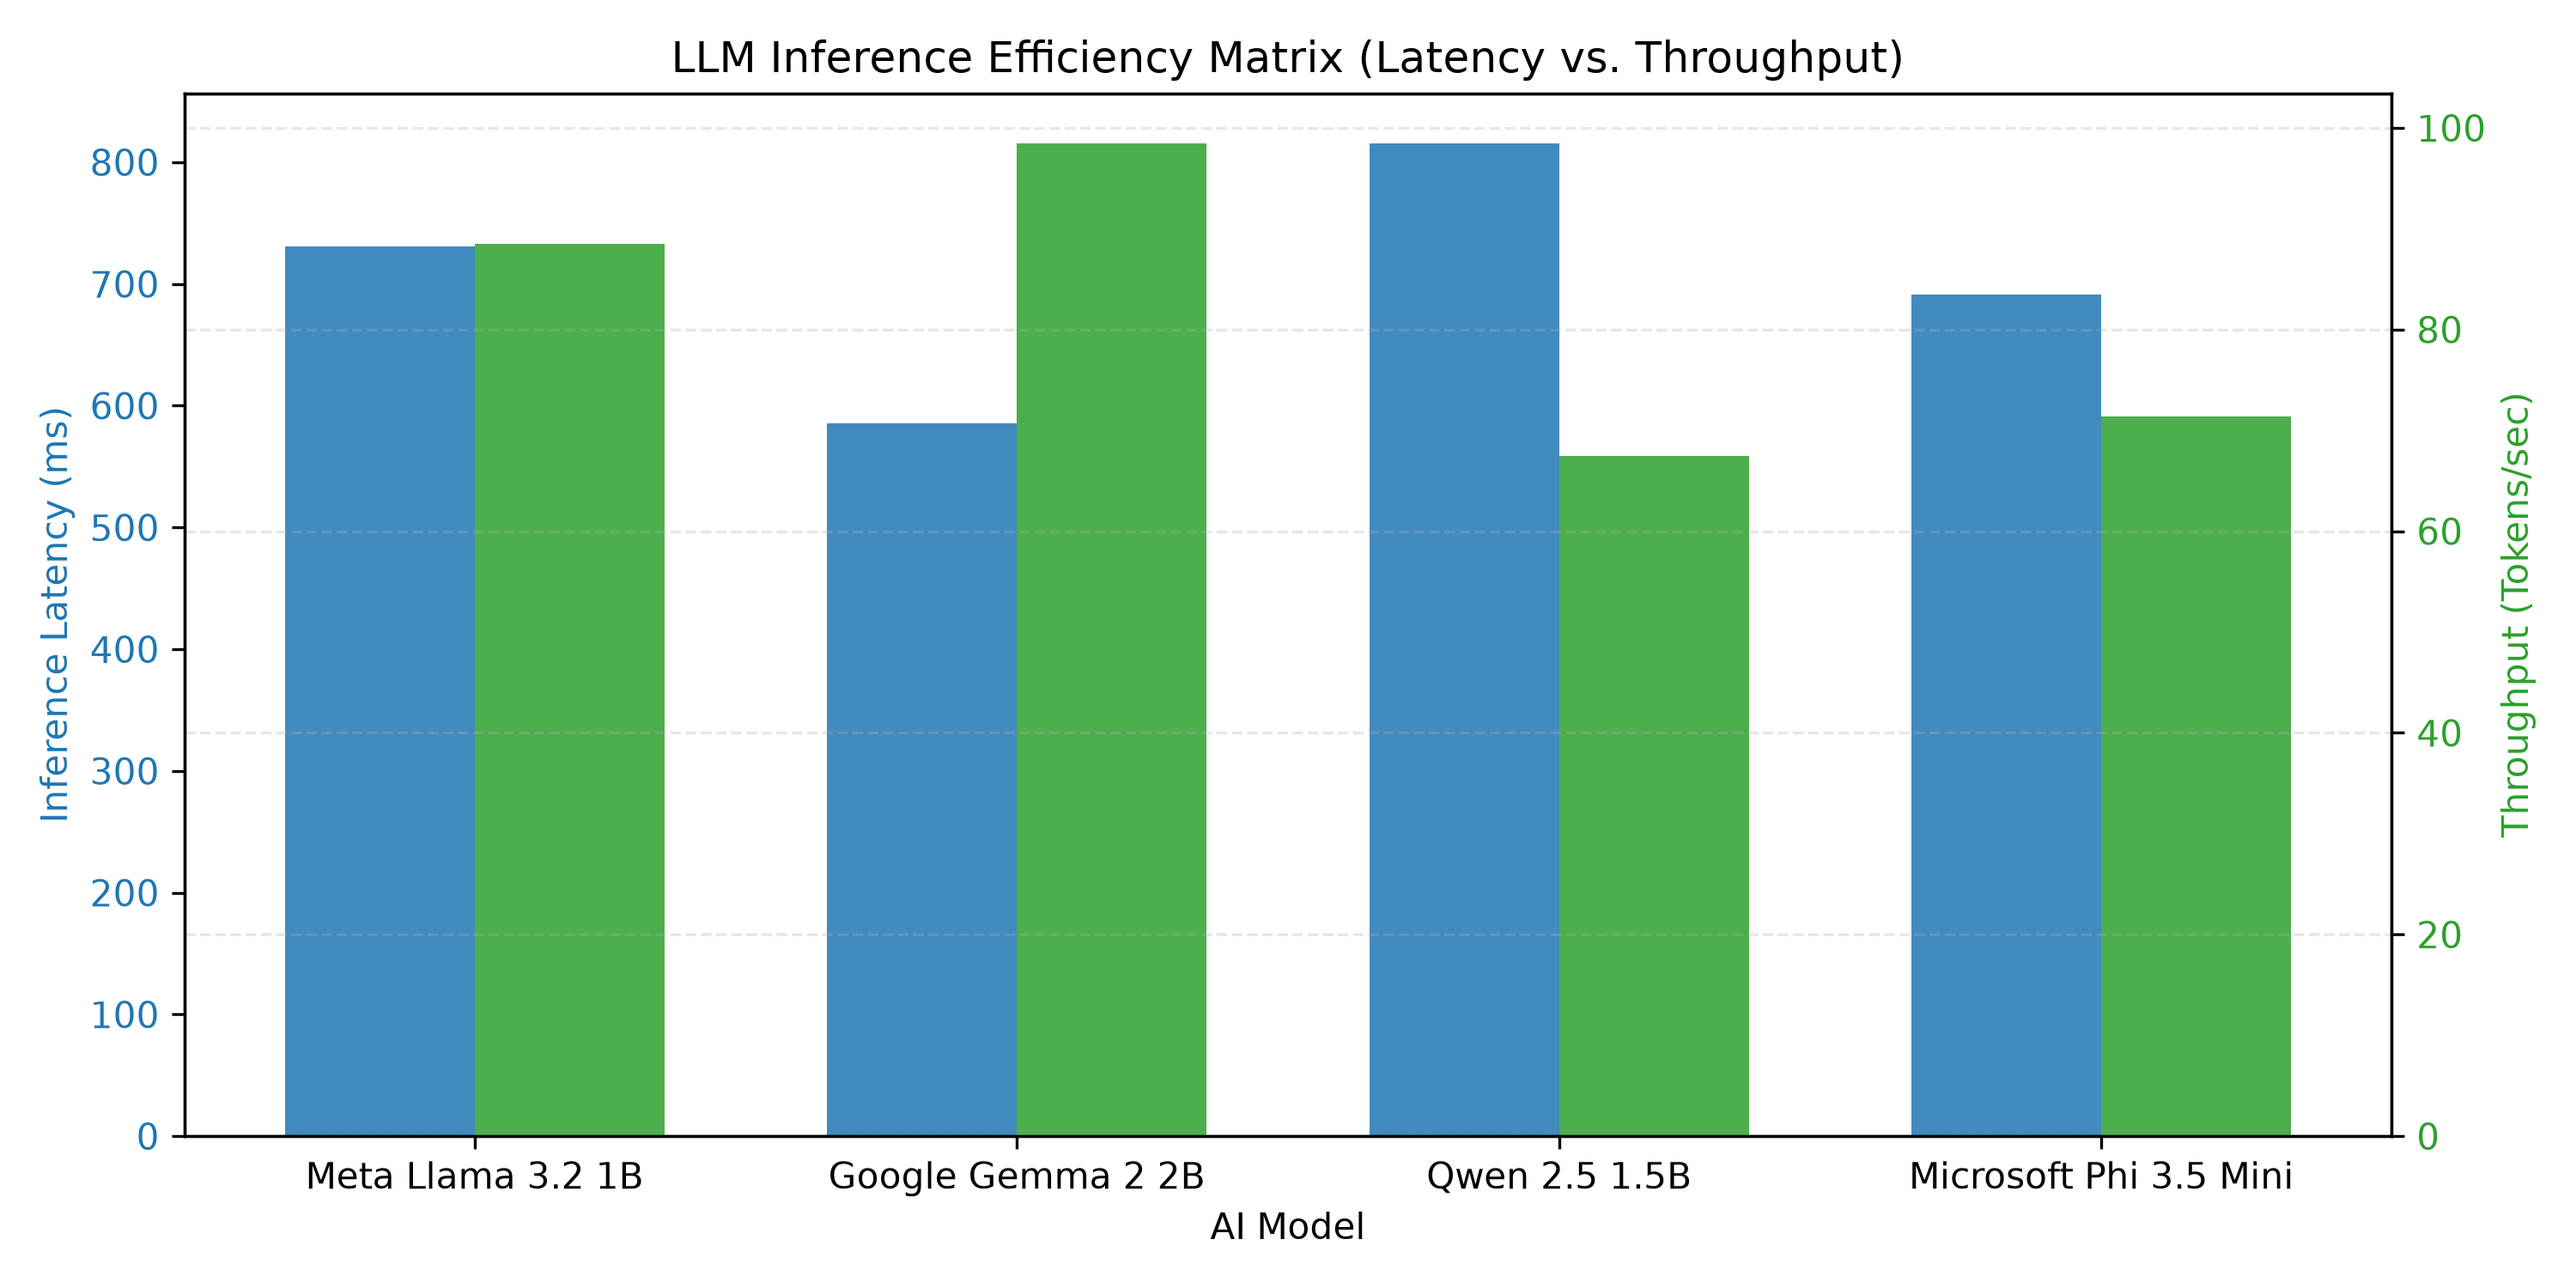
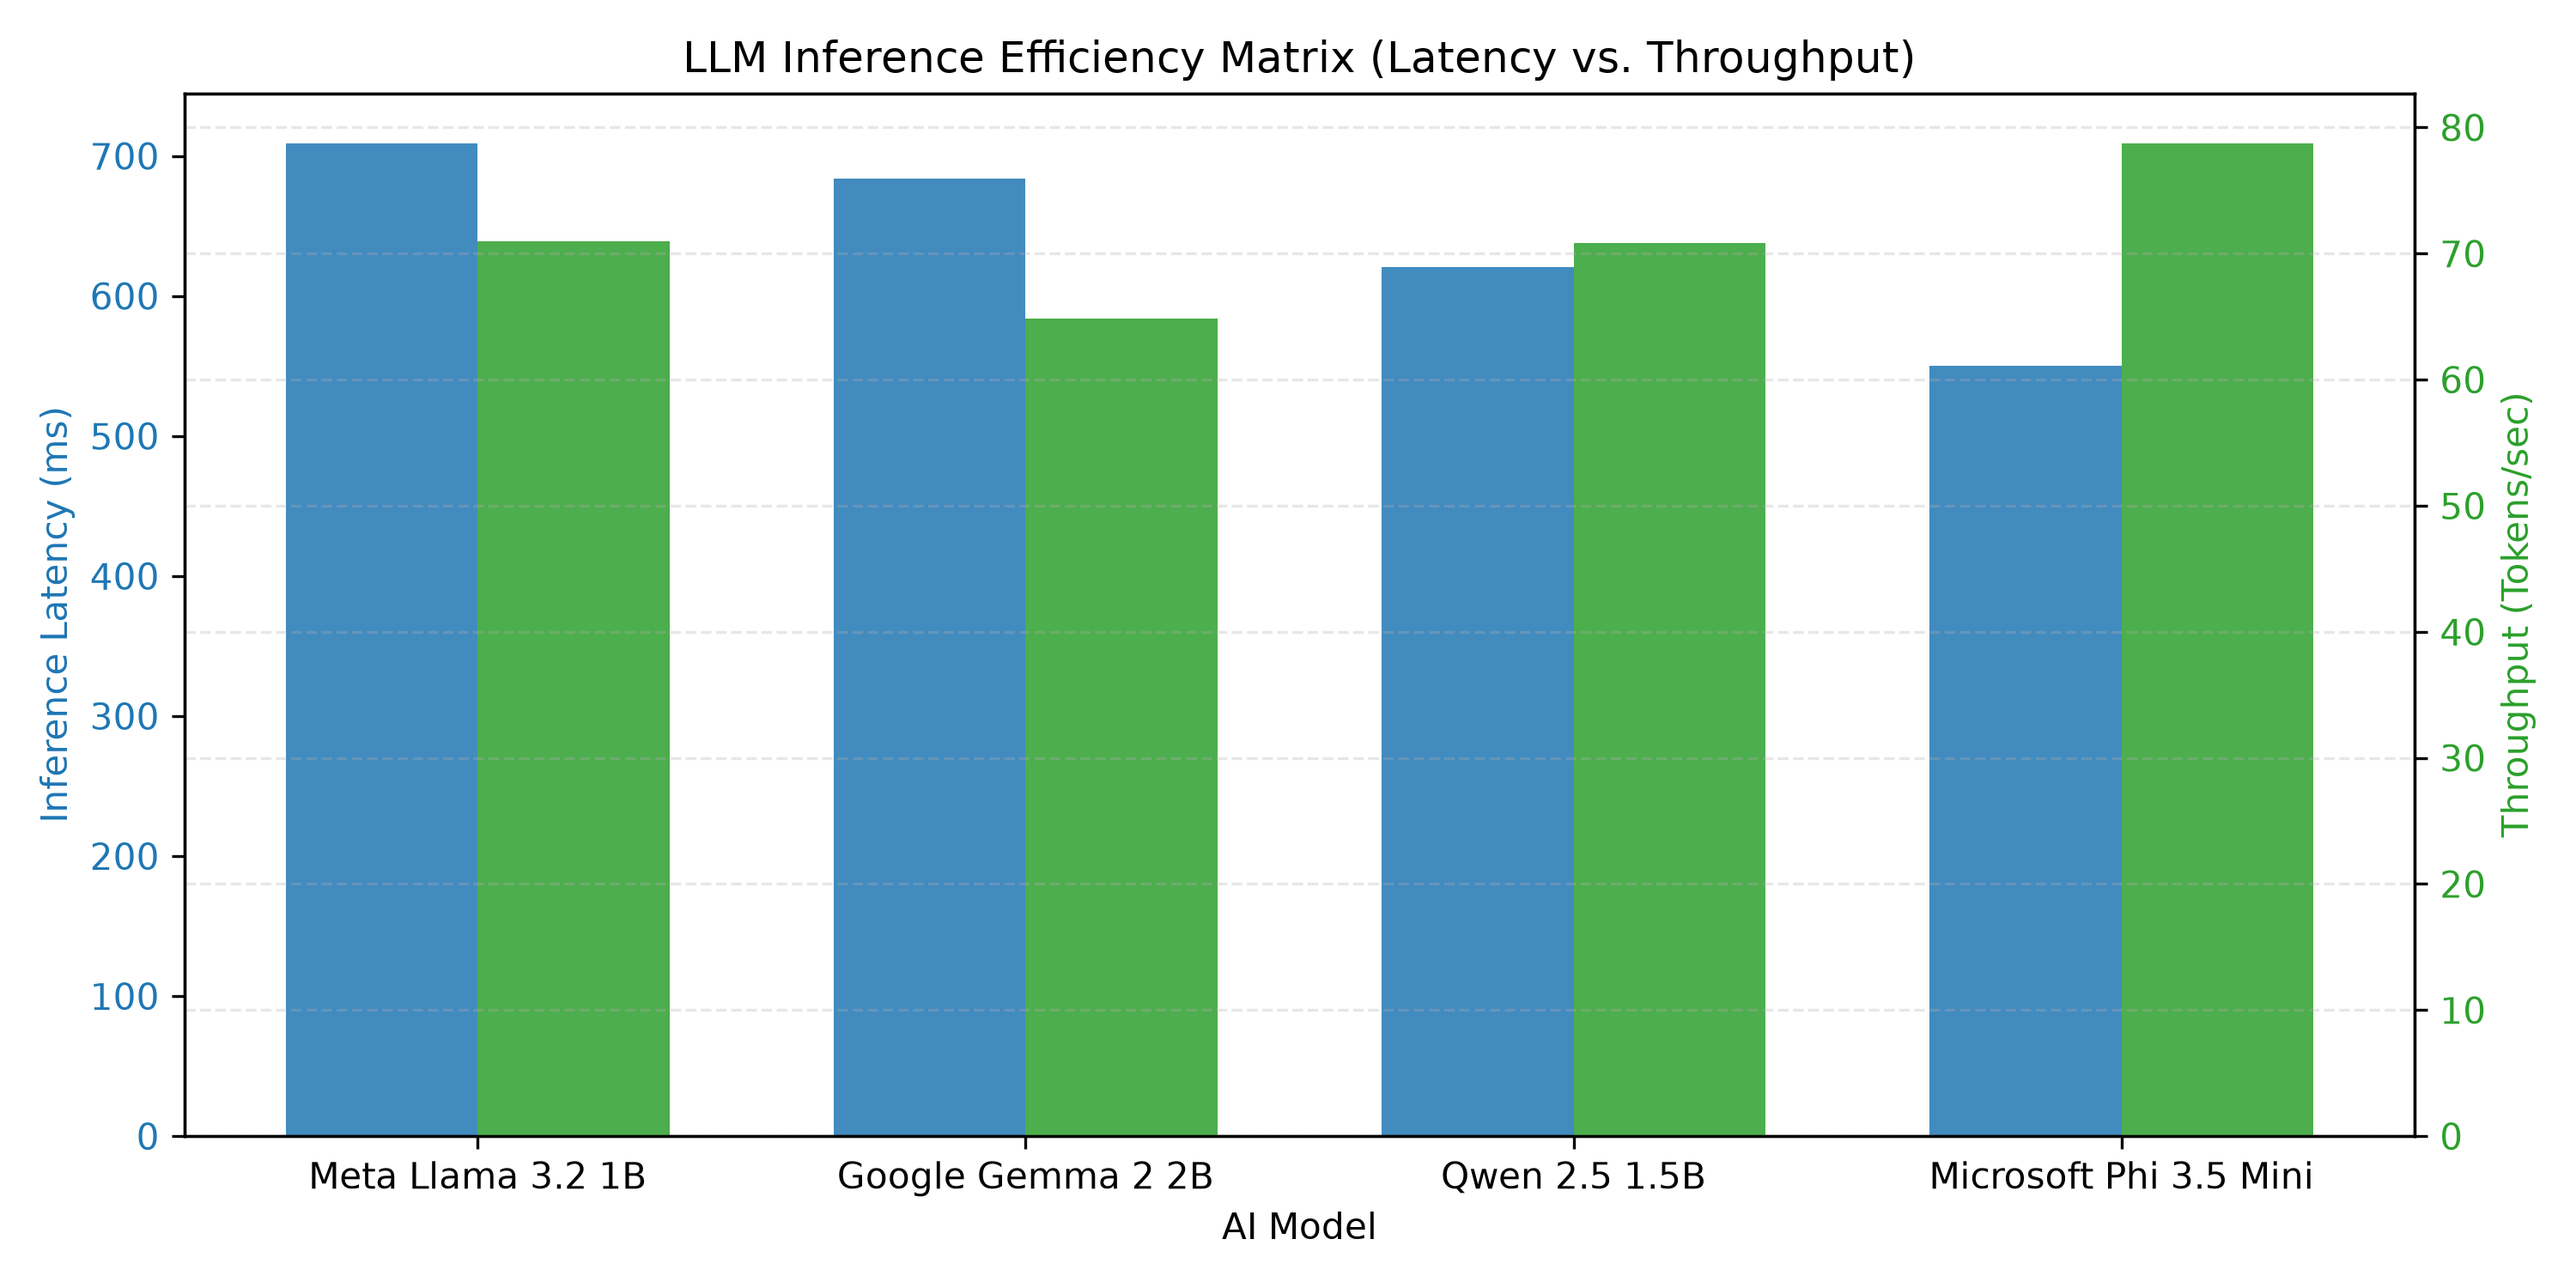
Automated update: LLM evaluation leaderboards & latency metrics

diff --git a/README.md b/README.md
@@ -1,6 +1,6 @@
 # 🧠 Automated LLM Evaluation & Inference Observability Harness
 
-*Automated eval run execution timestamp:* **2026-10-18 17:53:54 UTC**
+*Automated eval run execution timestamp:* **2026-10-19 16:53:51 UTC**
 
 An automated MLOps evaluation and benchmarking engine designed to measure open-weights Large Language Model (LLM) performance, tracking **Inference Latency (ms)**, **Generation Throughput (Tokens/sec)**, and **Eval Accuracy Indices** across major open models.
 
@@ -8,13 +8,13 @@ An automated MLOps evaluation and benchmarking engine designed to measure open-w
 
 | Model Architecture | Latency (ms) | Throughput (Tokens/s) | Quality Score Index | Success Rate |
 | :--- | :--- | :--- | :--- | :--- |
-| **Meta Llama 3.2 1B** | `731.03 ms` | `88.46 t/s` | `95.4%` | `100.0%` |
-| **Google Gemma 2 2B** | `585.54 ms` | `98.48 t/s` | `91.6%` | `100.0%` |
-| **Qwen 2.5 1.5B** | `815.58 ms` | `67.44 t/s` | `95.2%` | `100.0%` |
-| **Microsoft Phi 3.5 Mini** | `691.08 ms` | `71.39 t/s` | `91.6%` | `100.0%` |
+| **Meta Llama 3.2 1B** | `709.07 ms` | `70.99 t/s` | `98.5%` | `100.0%` |
+| **Google Gemma 2 2B** | `683.68 ms` | `64.84 t/s` | `98.2%` | `100.0%` |
+| **Qwen 2.5 1.5B** | `620.96 ms` | `70.86 t/s` | `93.0%` | `100.0%` |
+| **Microsoft Phi 3.5 Mini** | `550.24 ms` | `78.75 t/s` | `96.4%` | `100.0%` |
 
 ### 📊 Inference Performance Pareto Curve
-![LLM Performance Matrix](llm_performance_matrix.png?v=1792346035)
+![LLM Performance Matrix](llm_performance_matrix.png?v=1792428832)
 
 ---
 
